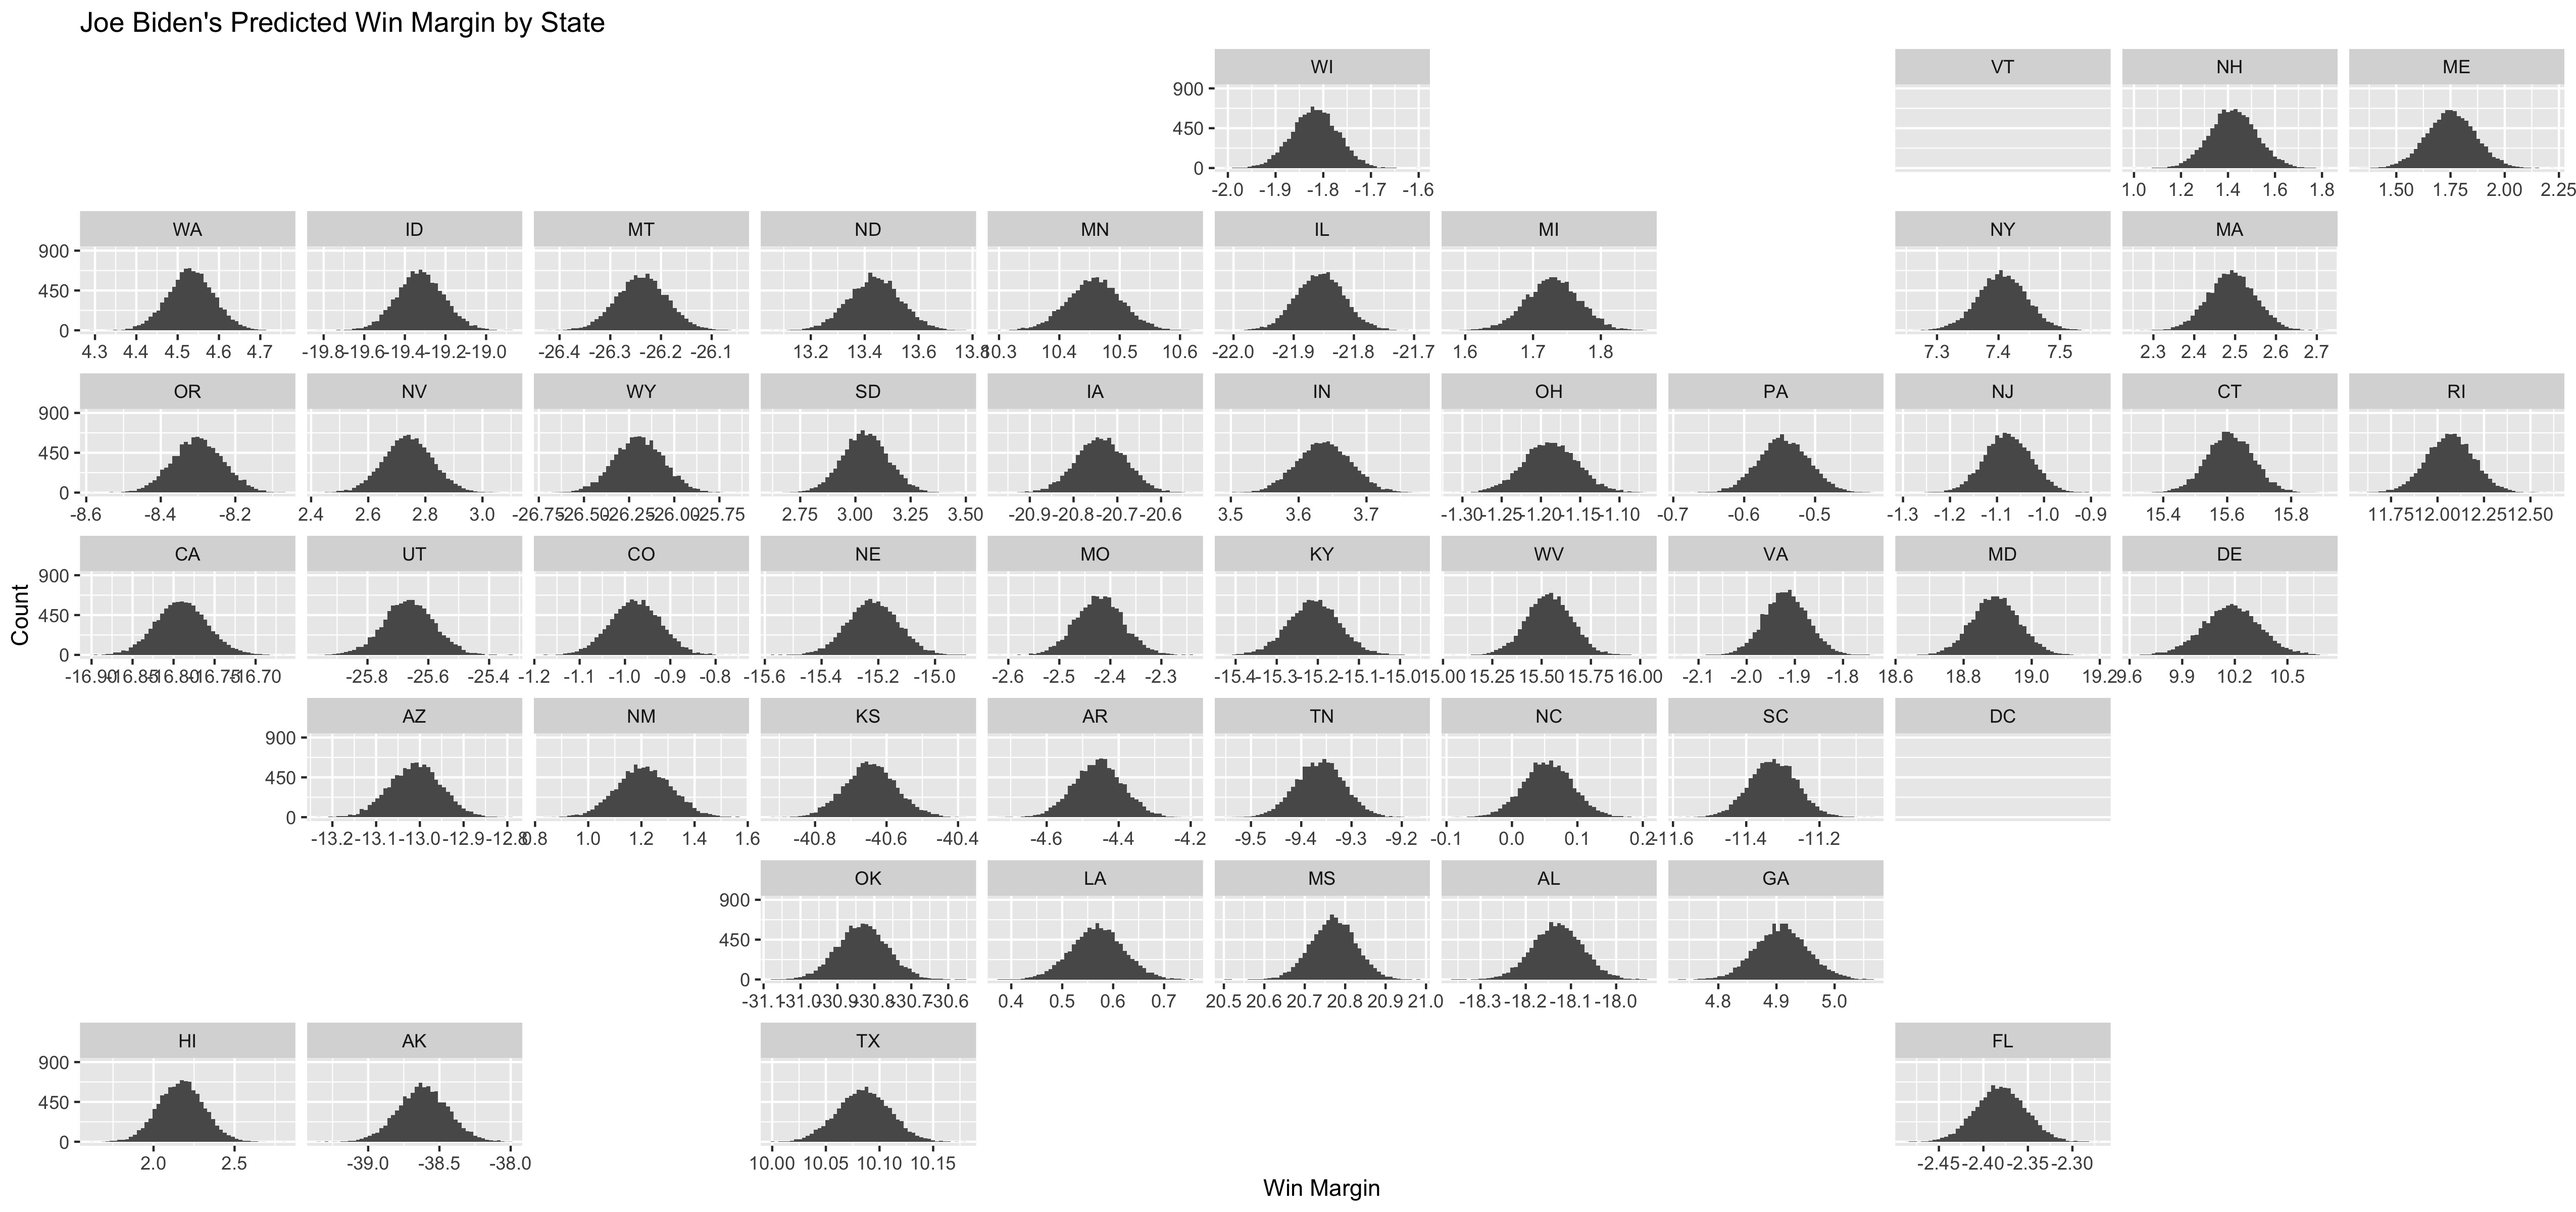
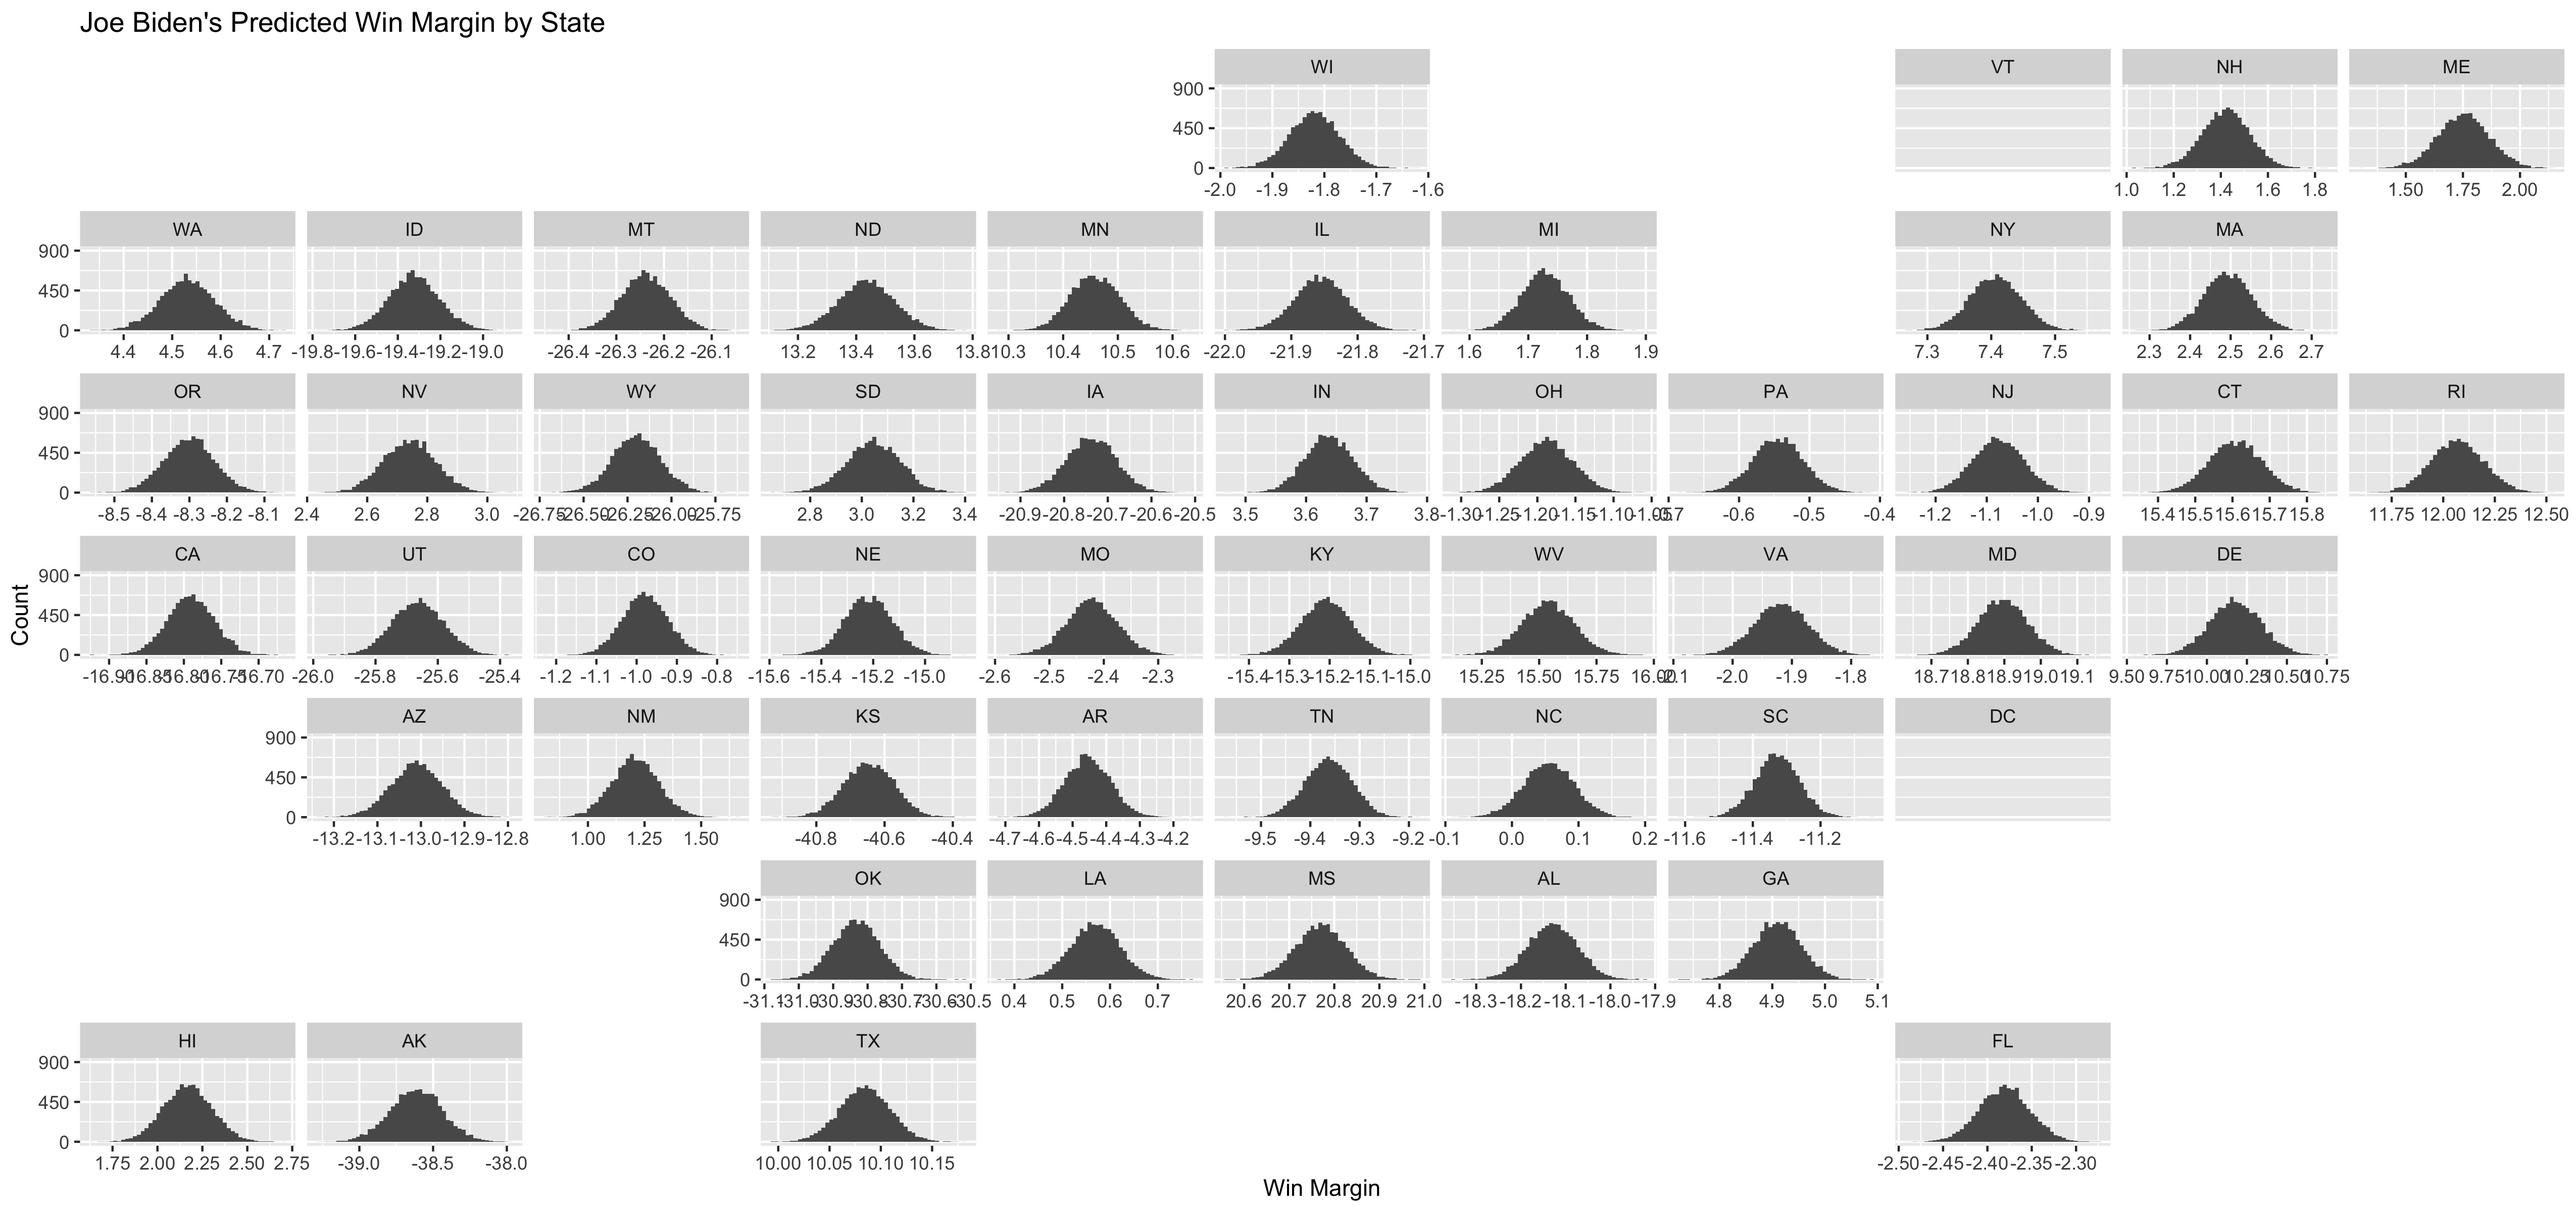
Final commit?

diff --git a/posts/blog5.md b/posts/blog5.md
@@ -6,19 +6,20 @@ _October 10, 2020_
 
 ### Methodology
 
-Using historical voting data on presidential elections, are we able to predict Vice President Joe Biden's win or loss margin in each state for the 2020 presidential election? 
+Using historical voting data on presidential elections, are we able to predict Vice President Joe Biden's win or loss margin in each state for the 2020 presidential election? One way we can tackle this challenge is by creating a model with each state's history of voting for Republican and Democratic candidates, and feeding the most recent 2020 polling data into this model to produce a prediction. 
 
-One way we can tackle this challenge is by creating a model with each state's history of voting for Republican and Democrat candidates, and feeding the most recent 2020 polling data into this model to produce a prediction. However, there are a few changes that can be made to refine this approach. The first is to use a logistic model rather than the typical linear model approach most commonly used on this blog before.   
+There are a few changes that can be made to refine our approach. The first is to use a logistic model rather than the typical linear model. Unlike linear models, logistic functions have an upper and lower bound. This avoids the issue of "out of support" predictions, or predictions that are outside the bounds of contextual reason, such as predicting a voteshare greater than 100%. We can also create several simulations with our models to produce a distribution of predictions, rather than relying on a single point estimate. 
 
 ### Predicted Win Margin in New Jersey 
 
 ![](../figures/njbidenwinmargin.jpg)
 
-
+The distribution of these predictions, created by generating 10,000 binomial simulations of the data, predicts Biden to win by a margin of 22.5% percentage points in New Jersey this coming November. This makes sense in the context of New Jersey, a state that consistently goes blue for presidential elections. 
 
 ### Predicted Win Margin in the U.S.
 
-
-
-
 ![](../figures/geofacet.jpg)
+
+By conducting the same process, we can observe the prediction distributions for each individual state. Some states, such as Vermont, don't display a prediction because there isn't sufficient historical or current polling data available. Here, we can see how key battleground areas like Florida, Pennsylvania, and Michigan have a distribution that is centered closely to 0. Biden does not have a clear win or loss margin due to their uncertainty as swing states, with a margin of -2.4, -0.55, and 1.7 for each state, respectively.
+
+It's clear that not all of these predictions seem accurate. In Texas, for example, Biden has a predicted win margin of about 10%. Although Texas is arguably a battleground state, it is not likely that Biden will win by a margin this large in a state that historically votes Republican for presidential elections. Similarly, in Mississippi, a firmly Republican state, this model predicts that Biden will have a large win margin of 20%. For the same reasons, this is very likely untrue and raises suspicion about the performance of this model. This model could likely be improved by the weighting polls included in the model based on their prior accuracy and incorporating fundamental aspects like unemployment rates.
